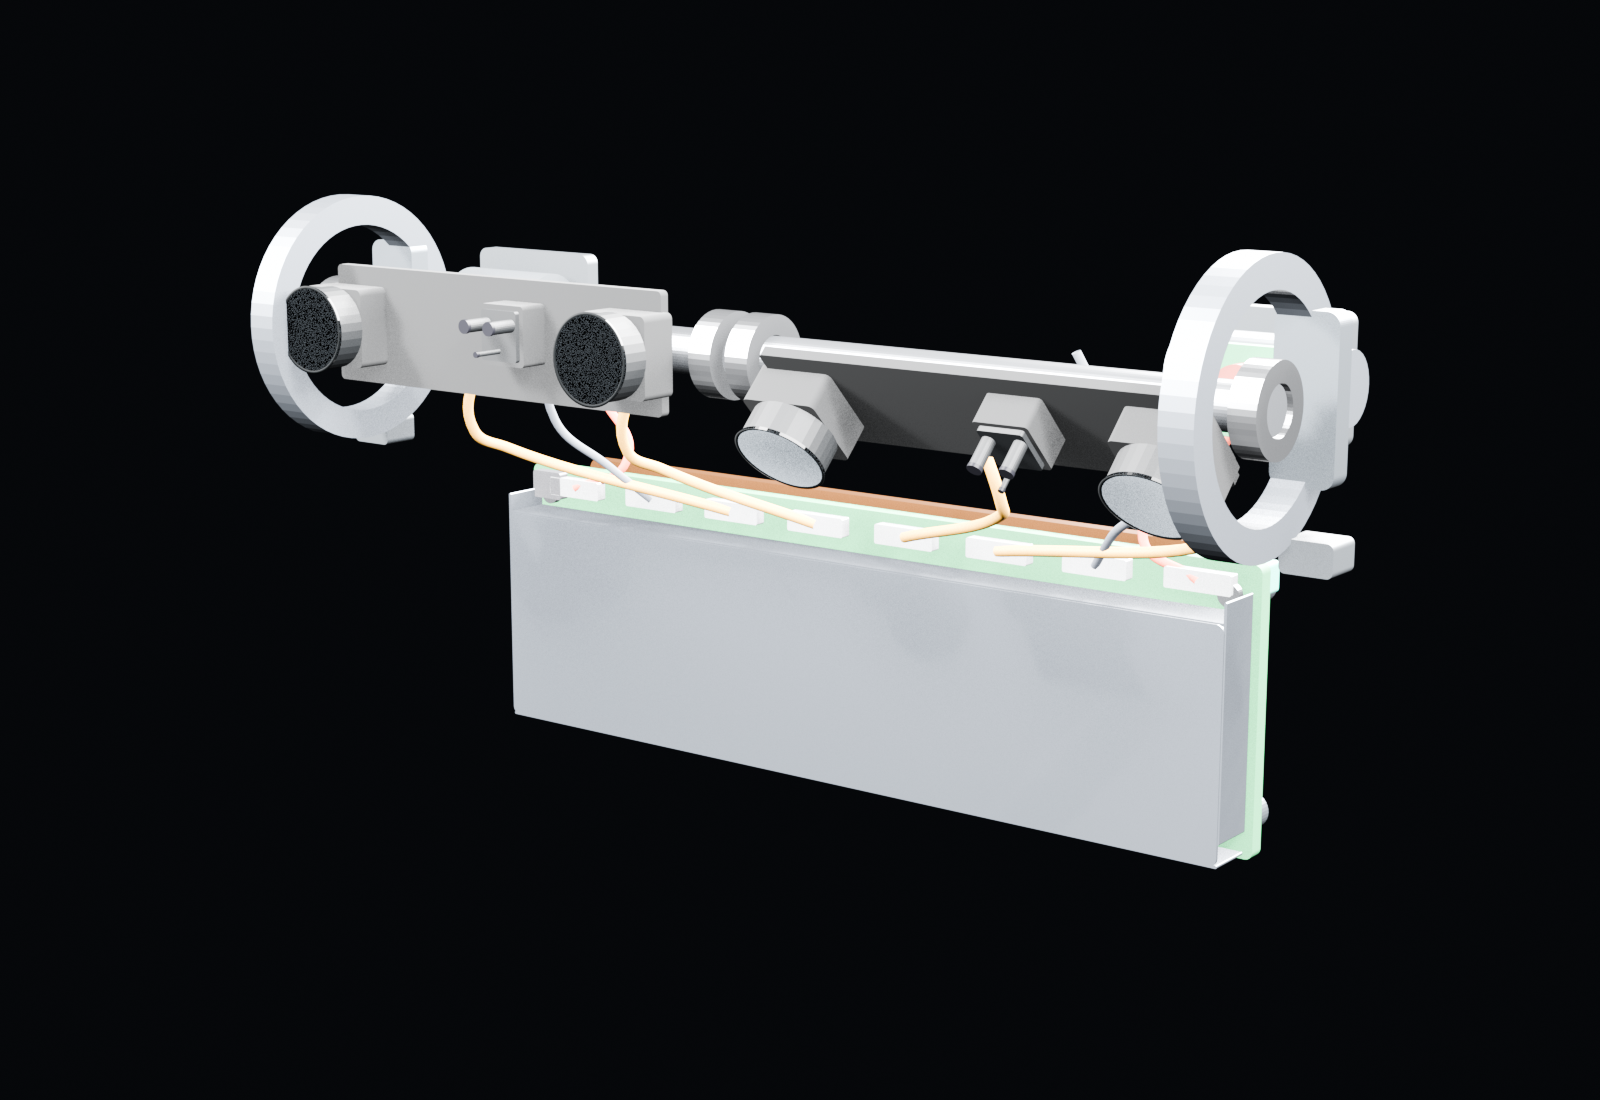
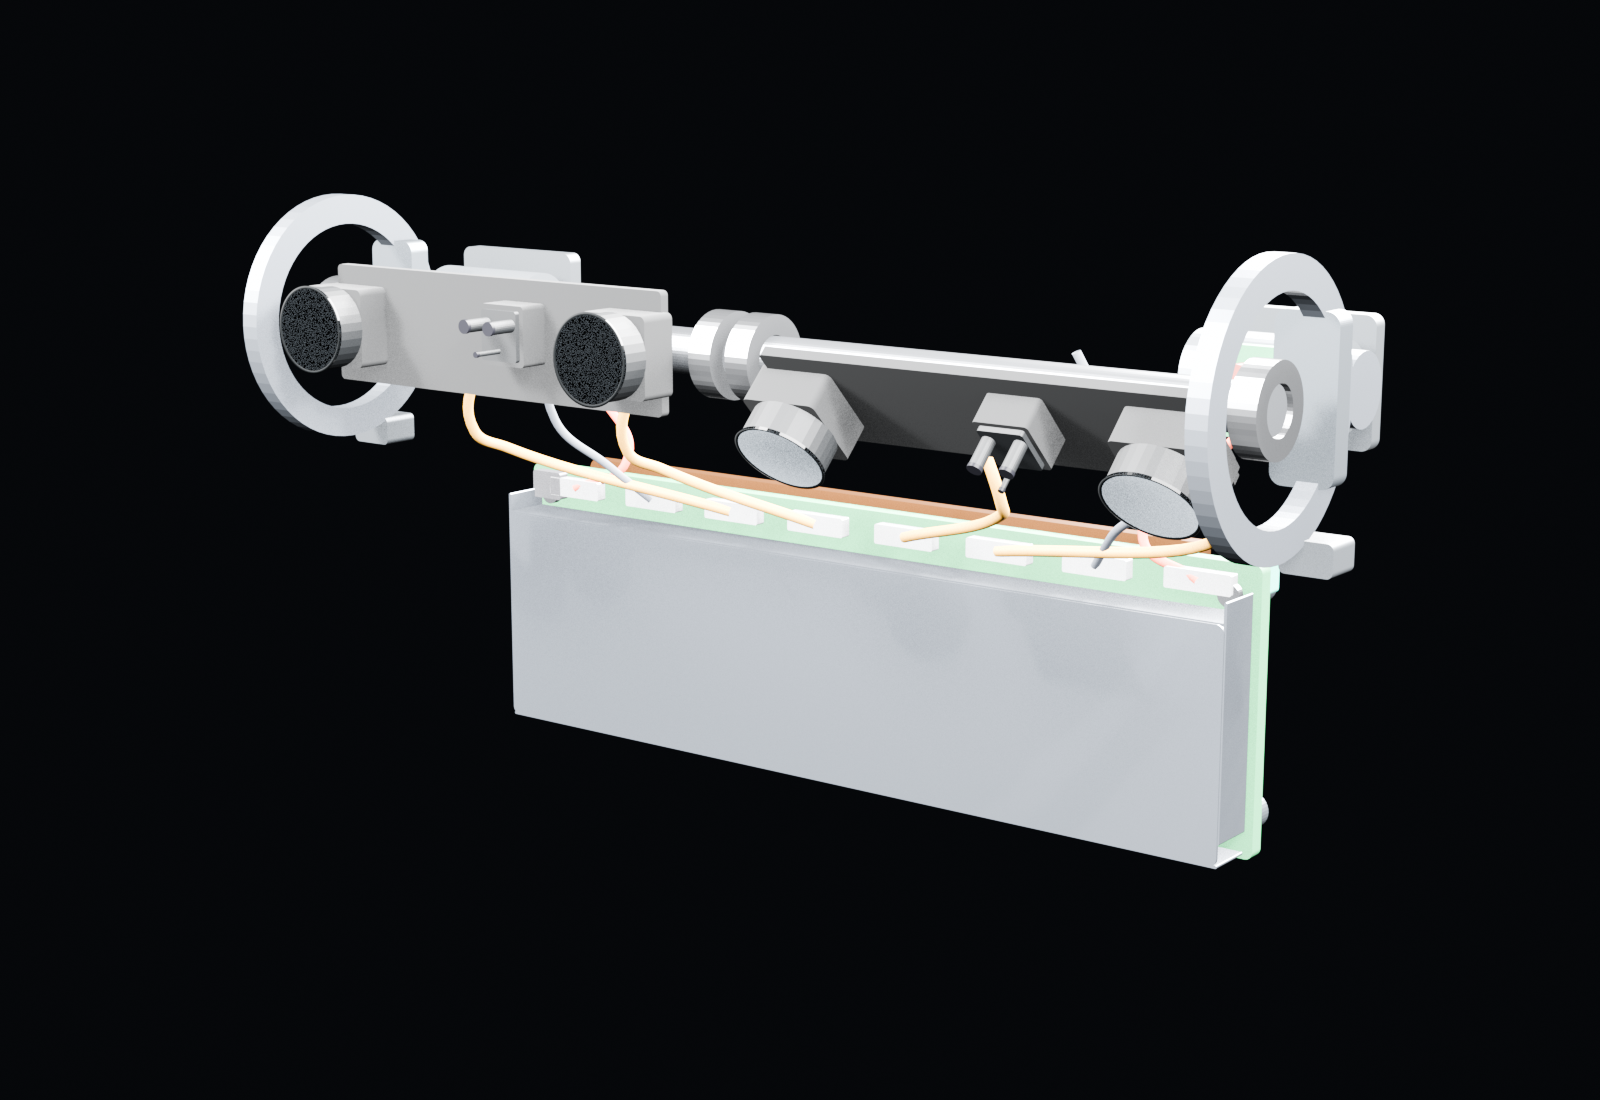
fix(blender): clear ring gears from drum optics

Changed region(s): [[0.7188, 0.2164, 0.875, 0.5255], [0.125, 0.1855, 0.3125, 0.4018], [0.3438, 0.2164, 0.375, 0.2782]]

diff --git a/blender/motion.py b/blender/motion.py
@@ -7,6 +7,10 @@ from assembly_primitives import box, cylinder, material, tag, tube, wire
 
 AXIS_Y = -1.5
 AXIS_Z = 20.0
+OUTER_GEAR_X = 54.8
+RING_GEAR_WIDTH = 2.0
+MOTOR_X = 47.0
+MOTOR_LENGTH = 14.0
 
 
 def _materials():
@@ -34,8 +38,11 @@ def _side(sign, label, mats, collection):
     objects = []
     drum_inner_x = sign * 1.0
     drum_outer_x = sign * 55.0
-    gear_x = sign * 53.0
-    motor_x = sign * 44.5
+    # Keep the ring gear in the final 2 mm end band of the 54 mm drum.
+    # The outer camera windows reach to X +/-52.38 mm; the former 3.2 mm
+    # gear at X +/-53 mm overlapped those windows by about 1 mm.
+    gear_x = sign * OUTER_GEAR_X
+    motor_x = sign * MOTOR_X
     motor_y = 13.6
 
     shaft = cylinder("{}_Drum_Axle".format(label),
@@ -53,16 +60,18 @@ def _side(sign, label, mats, collection):
 
     ring = tube("{}_Ring_Gear".format(label),
                 (gear_x, AXIS_Y, AXIS_Z), Vector((1.0, 0.0, 0.0)),
-                9.8, 12.8, 3.2, mats["gear"], collection, segments=64)
+                9.8, 12.8, RING_GEAR_WIDTH, mats["gear"], collection,
+                segments=64)
     objects.append(tag(ring, "Drum drive", "CONCEPT GEAR ENVELOPE"))
 
     motor = cylinder("{}_Geared_Motor".format(label),
                      (motor_x, motor_y, AXIS_Z), Vector((1.0, 0.0, 0.0)),
-                     4.2, 12.0, mats["motor"], collection)
+                     4.2, MOTOR_LENGTH, mats["motor"], collection)
     objects.append(tag(motor, "Drum drive", "REFERENCE GEARMOTOR"))
     pinion = cylinder("{}_Motor_Pinion".format(label),
                       (gear_x, motor_y, AXIS_Z), Vector((1.0, 0.0, 0.0)),
-                      3.4, 3.2, mats["gear"], collection, segments=32)
+                      3.4, RING_GEAR_WIDTH, mats["gear"], collection,
+                      segments=32)
     objects.append(tag(pinion, "Drum drive", "CONCEPT GEAR ENVELOPE"))
 
     bracket = box("{}_Motor_Bracket".format(label),

diff --git a/blender/validate_model.py b/blender/validate_model.py
@@ -71,6 +71,18 @@ def _curve_min_z(name):
         evaluated.to_mesh_clear()
 
 
+def _drum_optics_axial_bounds(prefix):
+    objects = [obj for obj in bpy.data.objects
+               if obj.name.startswith(prefix + "_")
+               and obj.type == "MESH"
+               and "Drum Optics" in {c.name for c in obj.users_collection}
+               and "_Cutter_" not in obj.name
+               and not obj.name.endswith("_KeepOut")]
+    minima = [_bounds(obj.name)[0][0] for obj in objects]
+    maxima = [_bounds(obj.name)[1][0] for obj in objects]
+    return min(minima), max(maxima)
+
+
 def main():
     missing = []
     for subsystem, names in REQUIRED.items():
@@ -96,6 +108,22 @@ def main():
         if _overlap("Main_PCBA_Populated_Keepout", motor):
             missing.append("electronics keep-out overlaps " + motor)
     print("ok: electronics keep-out clears both geared motors")
+
+    gear_clearance = 0.0005
+    face_optics = _drum_optics_axial_bounds("Face_Drum")
+    face_gear = _bounds("Face_Ring_Gear")
+    face_gap = face_optics[0] - face_gear[1][0]
+    interaction_optics = _drum_optics_axial_bounds("Interaction_Drum")
+    interaction_gear = _bounds("Interaction_Ring_Gear")
+    interaction_gap = interaction_gear[0][0] - interaction_optics[1]
+    if face_gap < gear_clearance:
+        missing.append("Face ring gear clearance to optics is {:.2f} mm".format(
+            face_gap * 1000.0))
+    if interaction_gap < gear_clearance:
+        missing.append(
+            "Interaction ring gear clearance to optics is {:.2f} mm".format(
+                interaction_gap * 1000.0))
+    print("ok: ring gears clear all drum optics by at least 0.5 mm")
 
     shielded = (
         "NXP_iMX95", "CrossLink_NX_FPGA", "LPDDR_1", "LPDDR_2",

diff --git a/docs/design/blender-reference-model.md b/docs/design/blender-reference-model.md
@@ -20,7 +20,7 @@ drums. The flat internal stack does not dictate a box-shaped exterior.
 | --- | --- | --- |
 | Face drum | Aims RGB, IR depth receiver, and structured-light projection at the user. | Shell and optical architecture present; exact optics remain reference/placeholder geometry. |
 | Interaction drum | Aims the same sensing classes toward hands and workspace. | Shell and optical architecture present; exact optics remain reference/placeholder geometry. |
-| Drum motion | Rotates each drum independently and measures its real angle. | Two motors, pinions, ring gears, axles, four bearings, encoders, brackets, and stops present as concept/reference envelopes. |
+| Drum motion | Rotates each drum independently and measures its real angle. | Two motors, pinions, ring gears, axles, four bearings, encoders, brackets, and stops present as concept/reference envelopes; ring gears occupy the outer 2 mm end bands clear of the camera windows. |
 | Electronics compartment | Houses the stationary Proof Engine below/behind the drums. | Curved hollow enclosure and populated PCBA volume present. |
 | EMI shield can | Encloses the populated PCBA area while leaving a narrow external connector strip at the board edge. | One lid and four perimeter walls present; grounding fingers, seams, and apertures await PCB/EMC design. |
 | Thermal path | Moves processor heat into the enclosure so the case can spread it. | Copper spreader and compliant housing pad present; dimensions and thermal performance remain unverified. |
@@ -109,6 +109,8 @@ testing; “outside the can” does not mean electrically unimportant.
 
 `blender/validate_model.py` confirms the named architecture-level subsystems
 exist and that no `Current_` or `Compact_` comparison objects remain. Optical
-containment checks also run during the scene build. This does **not** certify
+containment checks also run during the scene build. It also requires at least
+0.5 mm axial clearance between both ring gears and every optical mesh; the
+current concept provides 1.32 mm on each side. This does **not** certify
 manufacturability, signal integrity, EMC, thermal performance, eye safety,
 structural strength, cable life, or production tolerances.

diff --git a/blender/README.md b/blender/README.md
@@ -22,7 +22,8 @@ to manufacture tooling or certify optical, thermal, EMC, or safety behavior.
   board-covering EMI shield can, a separate external connector strip,
   thermal spreader/pad, microphone, and tamper switch.
 - `motion.py` — two offset gearmotors, pinions, ring gears, axles, four
-  bearings, encoder boards/magnets, brackets, and travel stops.
+  bearings, encoder boards/magnets, brackets, and travel stops. Each ring gear
+  occupies the final 2 mm drum-end band, clear of the outer camera window.
 - `interconnect.py` — four camera flex service loops and two projector
   power/control harnesses.
 - `support_hardware.py` — removable PCBA standoffs, fasteners, and bearing
